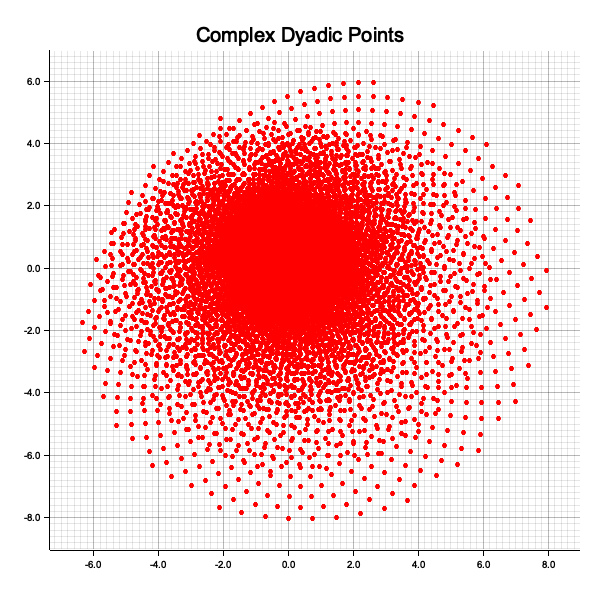
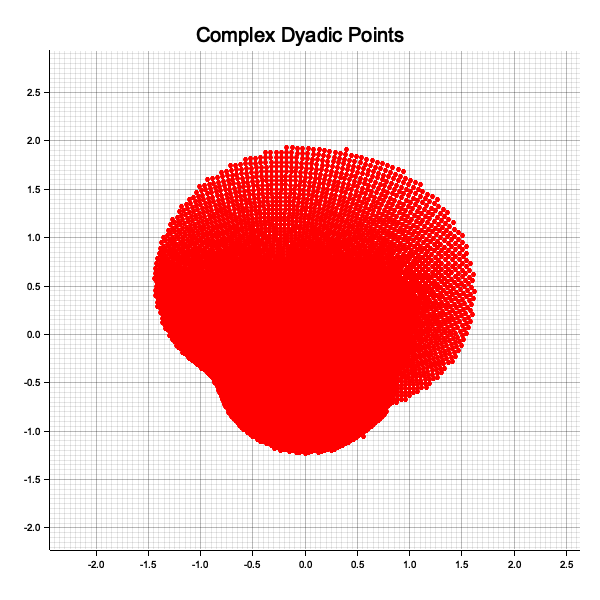
evaluate_function

Changed region(s): [[0.03, 0.09, 0.96, 0.96]]

diff --git a/src/main.rs b/src/main.rs
@@ -11,14 +11,27 @@ use landau::plot::{self, plot_set, plot_covering_grid} ;
 use plotters::prelude::*;
 use std::collections::LinkedList;
 
+fn evaluate_function(f : &Vec<ComplexDyadic>, delta : Dyadic, disk : &Vec<ComplexDyadic>) -> Option<f64> {
+    let m_seq = vec![Dyadic::new(1, -1), Dyadic::new(1, -1)] ; // no role for now
+    let complex = ComplexFunction::new(
+        BoundingSequence::new(m_seq),
+        ExpansionCoefficients::new(f.clone()),
+    );
+    let mut image = Vec::new() ;
+    for x in disk {
+        image.push(complex.eval(*x))
+    }
+    let grid = create_covering_grid(&image, delta.clone()* Dyadic::new(4, 0), delta.clone()) ;
+    grid_approx(&grid, delta)
+} 
 fn main()-> Result<(), Box<dyn std::error::Error>>
-{
-    let x = Dyadic::new(5, -1) ;
-    let m_seq = vec![x.clone(), x.clone(), x.clone(), x.clone()] ;
+{   
+    let x = Dyadic::new(1, -1) ;
+    let m_seq = vec![x.clone(), x.clone()] ;
     let t_seq = vec![0, 1, 0, 1, 2, 0, 1, 2, 2, 0, 1, 2, 3, 0, 1, 2, 3, 0];
     let word = vec![1, 1, 1, 3, 2, 1, 3, 1, 2, 3, 1, 2, 3, 1, 3, 2, 1, 2, 3, 2];
     let holo = psi_infinity(&m_seq, &t_seq, &word);
-    for t in &holo {
+    for t in &holo{
         println!("{}", t)
     }
     println!("done") ;
@@ -28,7 +41,6 @@ fn main()-> Result<(), Box<dyn std::error::Error>>
         BoundingSequence::new(m_seq),
         ExpansionCoefficients::new(holo),
     );
-    println!("{}", f.eval(ComplexDyadic::new(x.clone(), x.clone()))) ;
     let mut points2 = Vec::new() ;
     for x in &points1 {
         points2.push(f.eval(*x))
@@ -38,6 +50,11 @@ fn main()-> Result<(), Box<dyn std::error::Error>>
     plot_covering_grid(&grid, "covering_grid.png")?;
     plot_covering_grid(&grid_complement(&grid, Dyadic::new(1, -4)), "complement.png")?;
     println!("approximation is {}", grid_approx(&grid, Dyadic::new(1, -4)).unwrap()) ;
+    let m_seq1 = vec![x.clone(), x.clone()] ;
+
+    let holo1 = psi_infinity(&m_seq1, &t_seq, &word);
+
+    println!("new approx {}", evaluate_function(&holo1, Dyadic::new(1, -4), &points1).unwrap()) ;
     Ok(())
 }
 // add these to tests!!!

diff --git a/src/plot.rs b/src/plot.rs
@@ -34,6 +34,11 @@ pub fn plot_set(points: &Vec<ComplexDyadic>, filename : &str) -> Result<(), Box<
 }
 
 pub fn plot_covering_grid(grid: &HashSet<ComplexDyadic>, filename: &str) -> Result<(), Box<dyn std::error::Error>> {
+    let extremes = extreme_points(&grid.iter().copied().collect()).unwrap();
+    let min_real = extremes[0].re.to_f64() - 1.0 ;
+    let max_real = extremes[1].re.to_f64() + 1.0 ;
+    let min_imag = extremes[2].im.to_f64() - 1.0 ;
+    let max_imag = extremes[3].im.to_f64() + 1.0;
     let root = BitMapBackend::new(filename, (600, 600)).into_drawing_area();
     root.fill(&WHITE)?;
 
@@ -44,7 +49,7 @@ pub fn plot_covering_grid(grid: &HashSet<ComplexDyadic>, filename: &str) -> Resu
         .margin(20)
         .x_label_area_size(30)
         .y_label_area_size(30)
-        .build_cartesian_2d(range.clone(), range.clone())?;
+        .build_cartesian_2d(min_real..max_real, min_imag..max_imag)?;
 
     chart.configure_mesh().draw()?;
 
@@ -54,7 +59,7 @@ pub fn plot_covering_grid(grid: &HashSet<ComplexDyadic>, filename: &str) -> Resu
             Circle::new((x, y), 1, RED.filled())
         })
     )?;
-
+    println!("{}", grid.len()) ;
     println!("Grid plotted to {}", filename);
     Ok(())
 }

diff --git a/src/holomorphic.rs b/src/holomorphic.rs
@@ -53,7 +53,7 @@ impl BoundingSequence {
 #[derive(Clone, Debug)]
 // a_1, the first element should always be zero here.
 pub struct ExpansionCoefficients {
-    vector: Vec<ComplexDyadic>,
+    pub vector: Vec<ComplexDyadic>,
 }
 
 impl Add for ExpansionCoefficients {
@@ -140,10 +140,10 @@ impl ComplexFunction {
     pub fn antiderivative(&self) -> ComplexFunction {
         let sequence = &self.expansion_coefficients.vector;
         let mut antiderivative_sequence = Vec::with_capacity(sequence.len() + 1);
-        antiderivative_sequence.push(ComplexDyadic::one());
+        antiderivative_sequence.push(ComplexDyadic::zero());
         for i in 0..sequence.len() {
             antiderivative_sequence.push(
-                sequence[i] / ComplexDyadic::new(Dyadic::new(i as i128 + 2, 0), Dyadic::zero()),
+                sequence[i] / ComplexDyadic::new(Dyadic::new(i as i128 + 1, 0), Dyadic::zero()),
             )
         }
         ComplexFunction {

diff --git a/src/psi.rs b/src/psi.rs
@@ -24,7 +24,7 @@ fn select_matching(n: u32, vec1: &Vec<u32>, vec2: &Vec<u8>) -> Vec<u8> { //words
 
 pub fn psi_infinity(m_seq: &Vec<Dyadic>, t_seq : &Vec<u32>, word : &Vec<u8>) -> Vec<ComplexDyadic> {
     let mut out = Vec::new() ;
-    out.push(ComplexDyadic::new(Dyadic::new(0,0), Dyadic::new(0, 0)));
+    // out.push(ComplexDyadic::new(Dyadic::new(0,0), Dyadic::new(0, 0)));
     out.push(ComplexDyadic::new(Dyadic::new(1,0), Dyadic::new(0, 0)));
     for n in 0..m_seq.len() {
         let word_on_step = select_matching(n as u32, t_seq, word) ;
